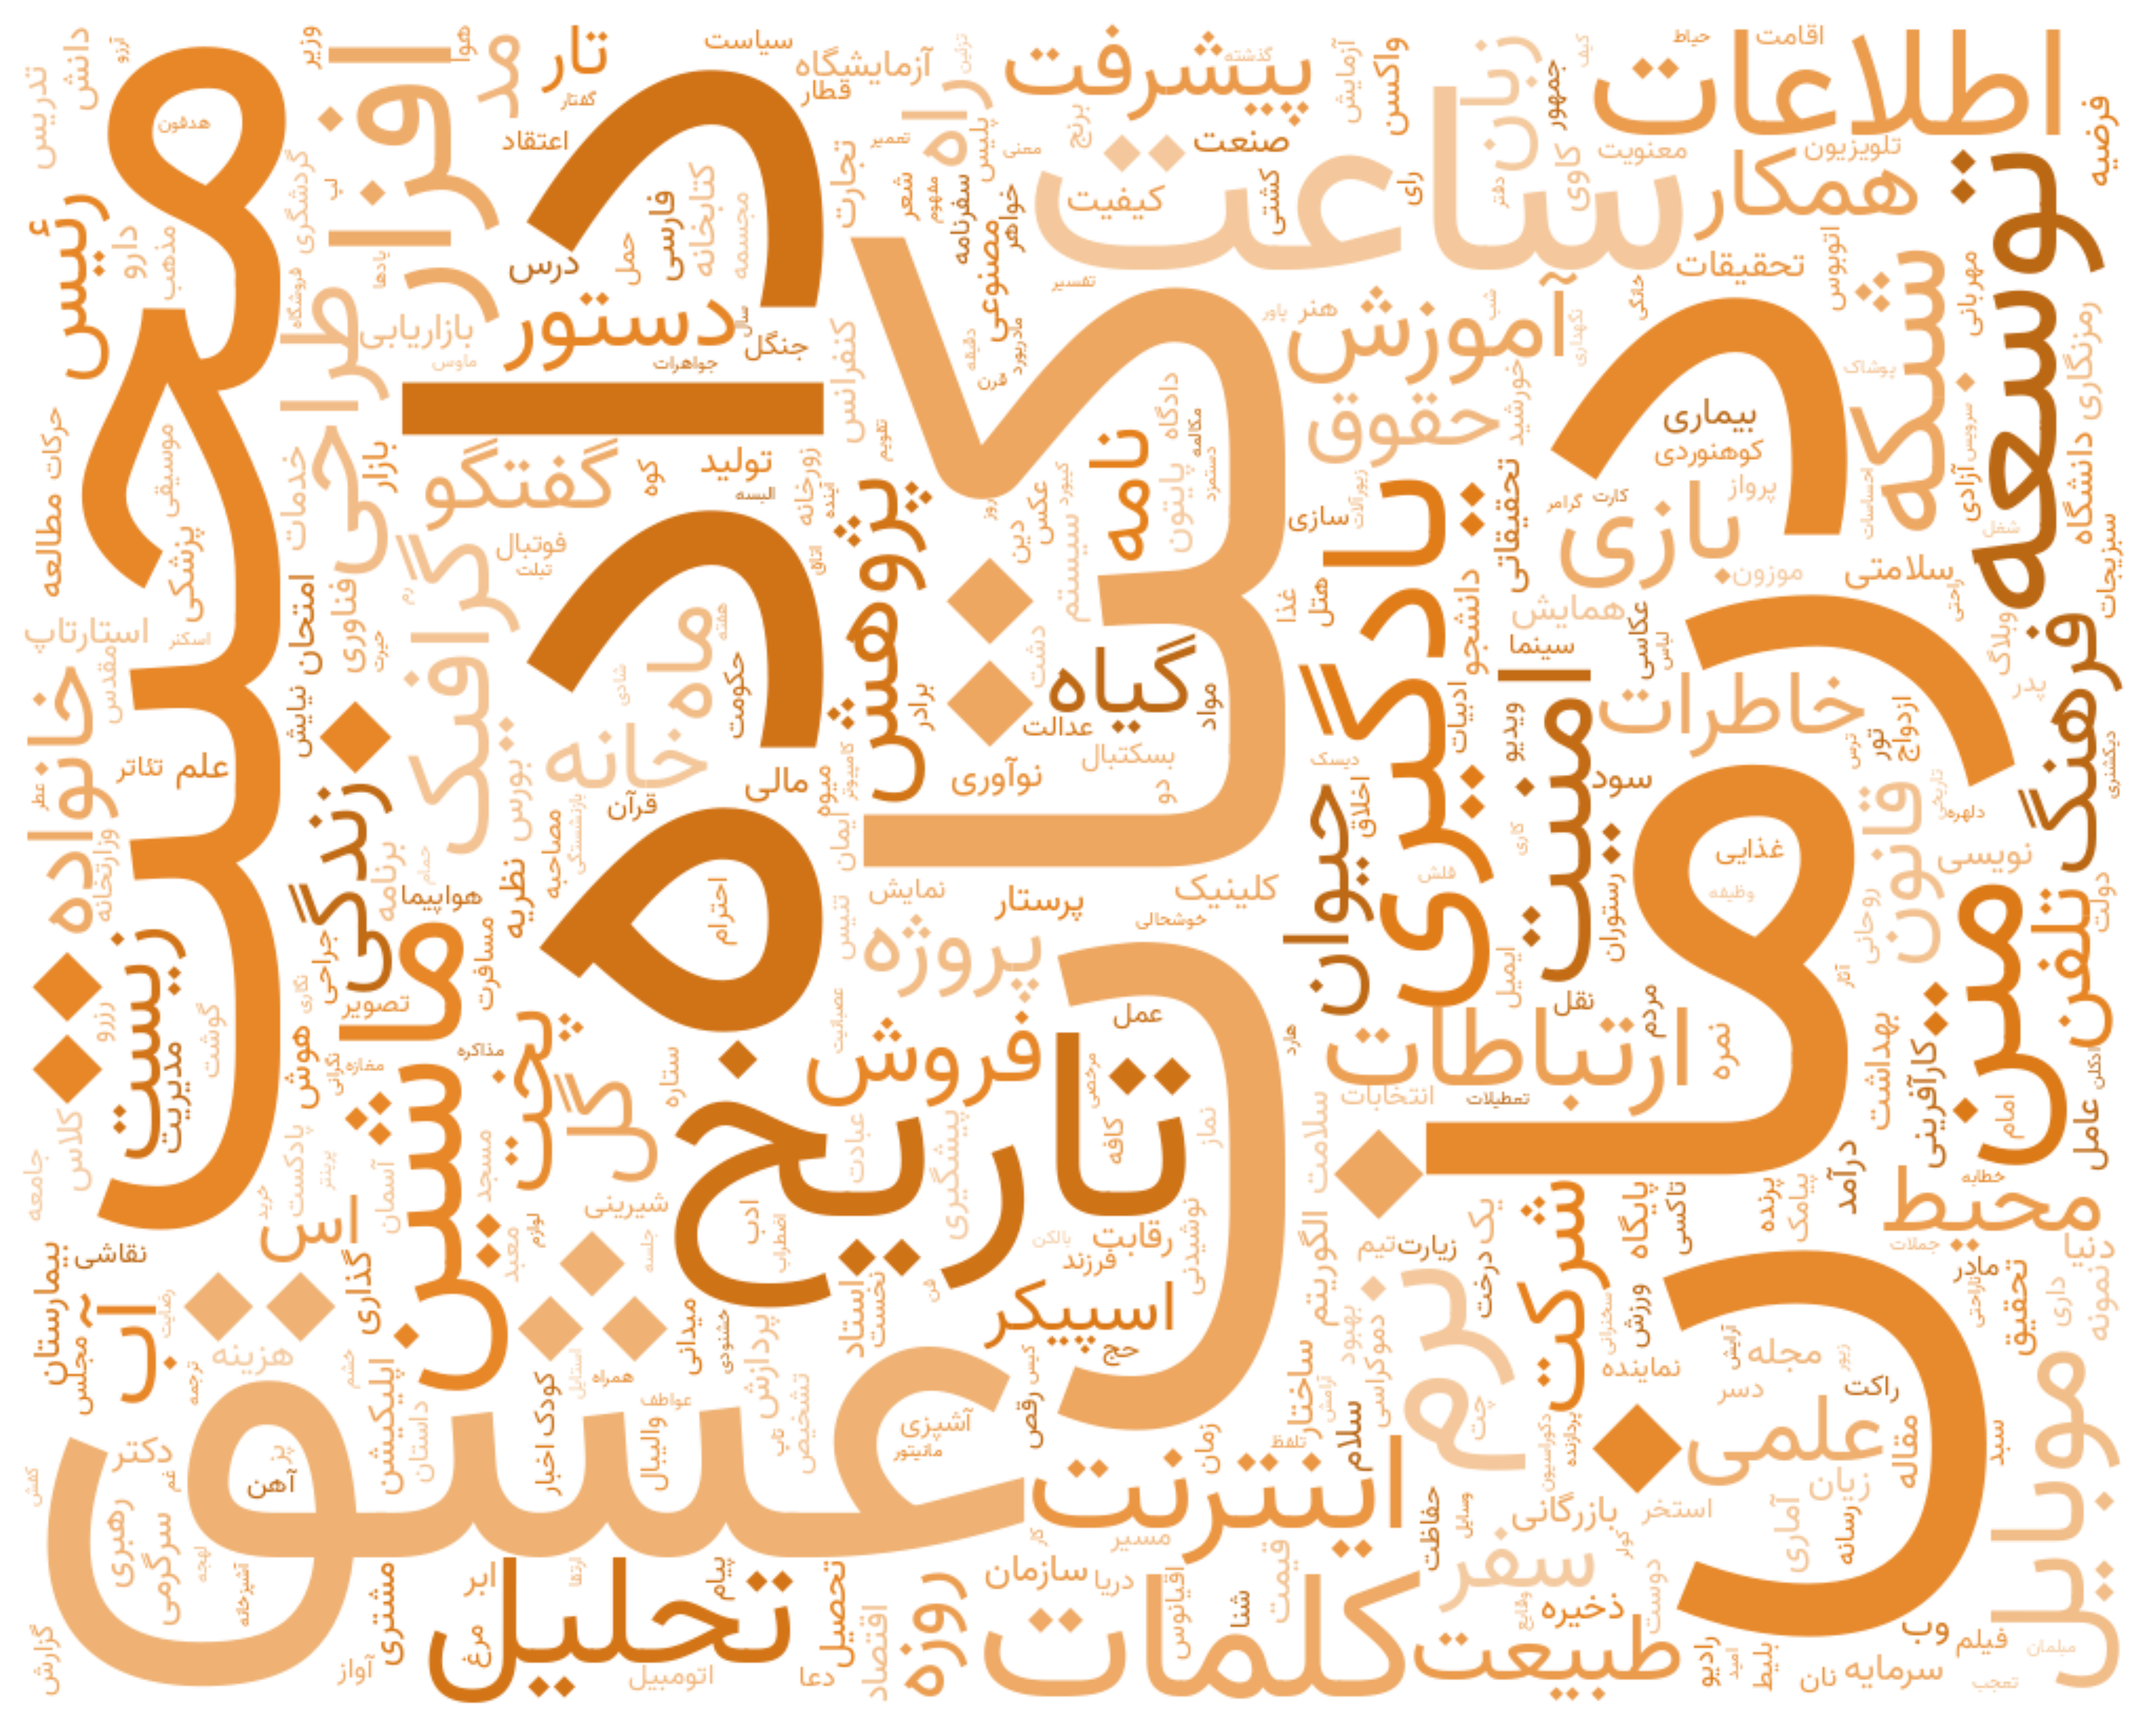
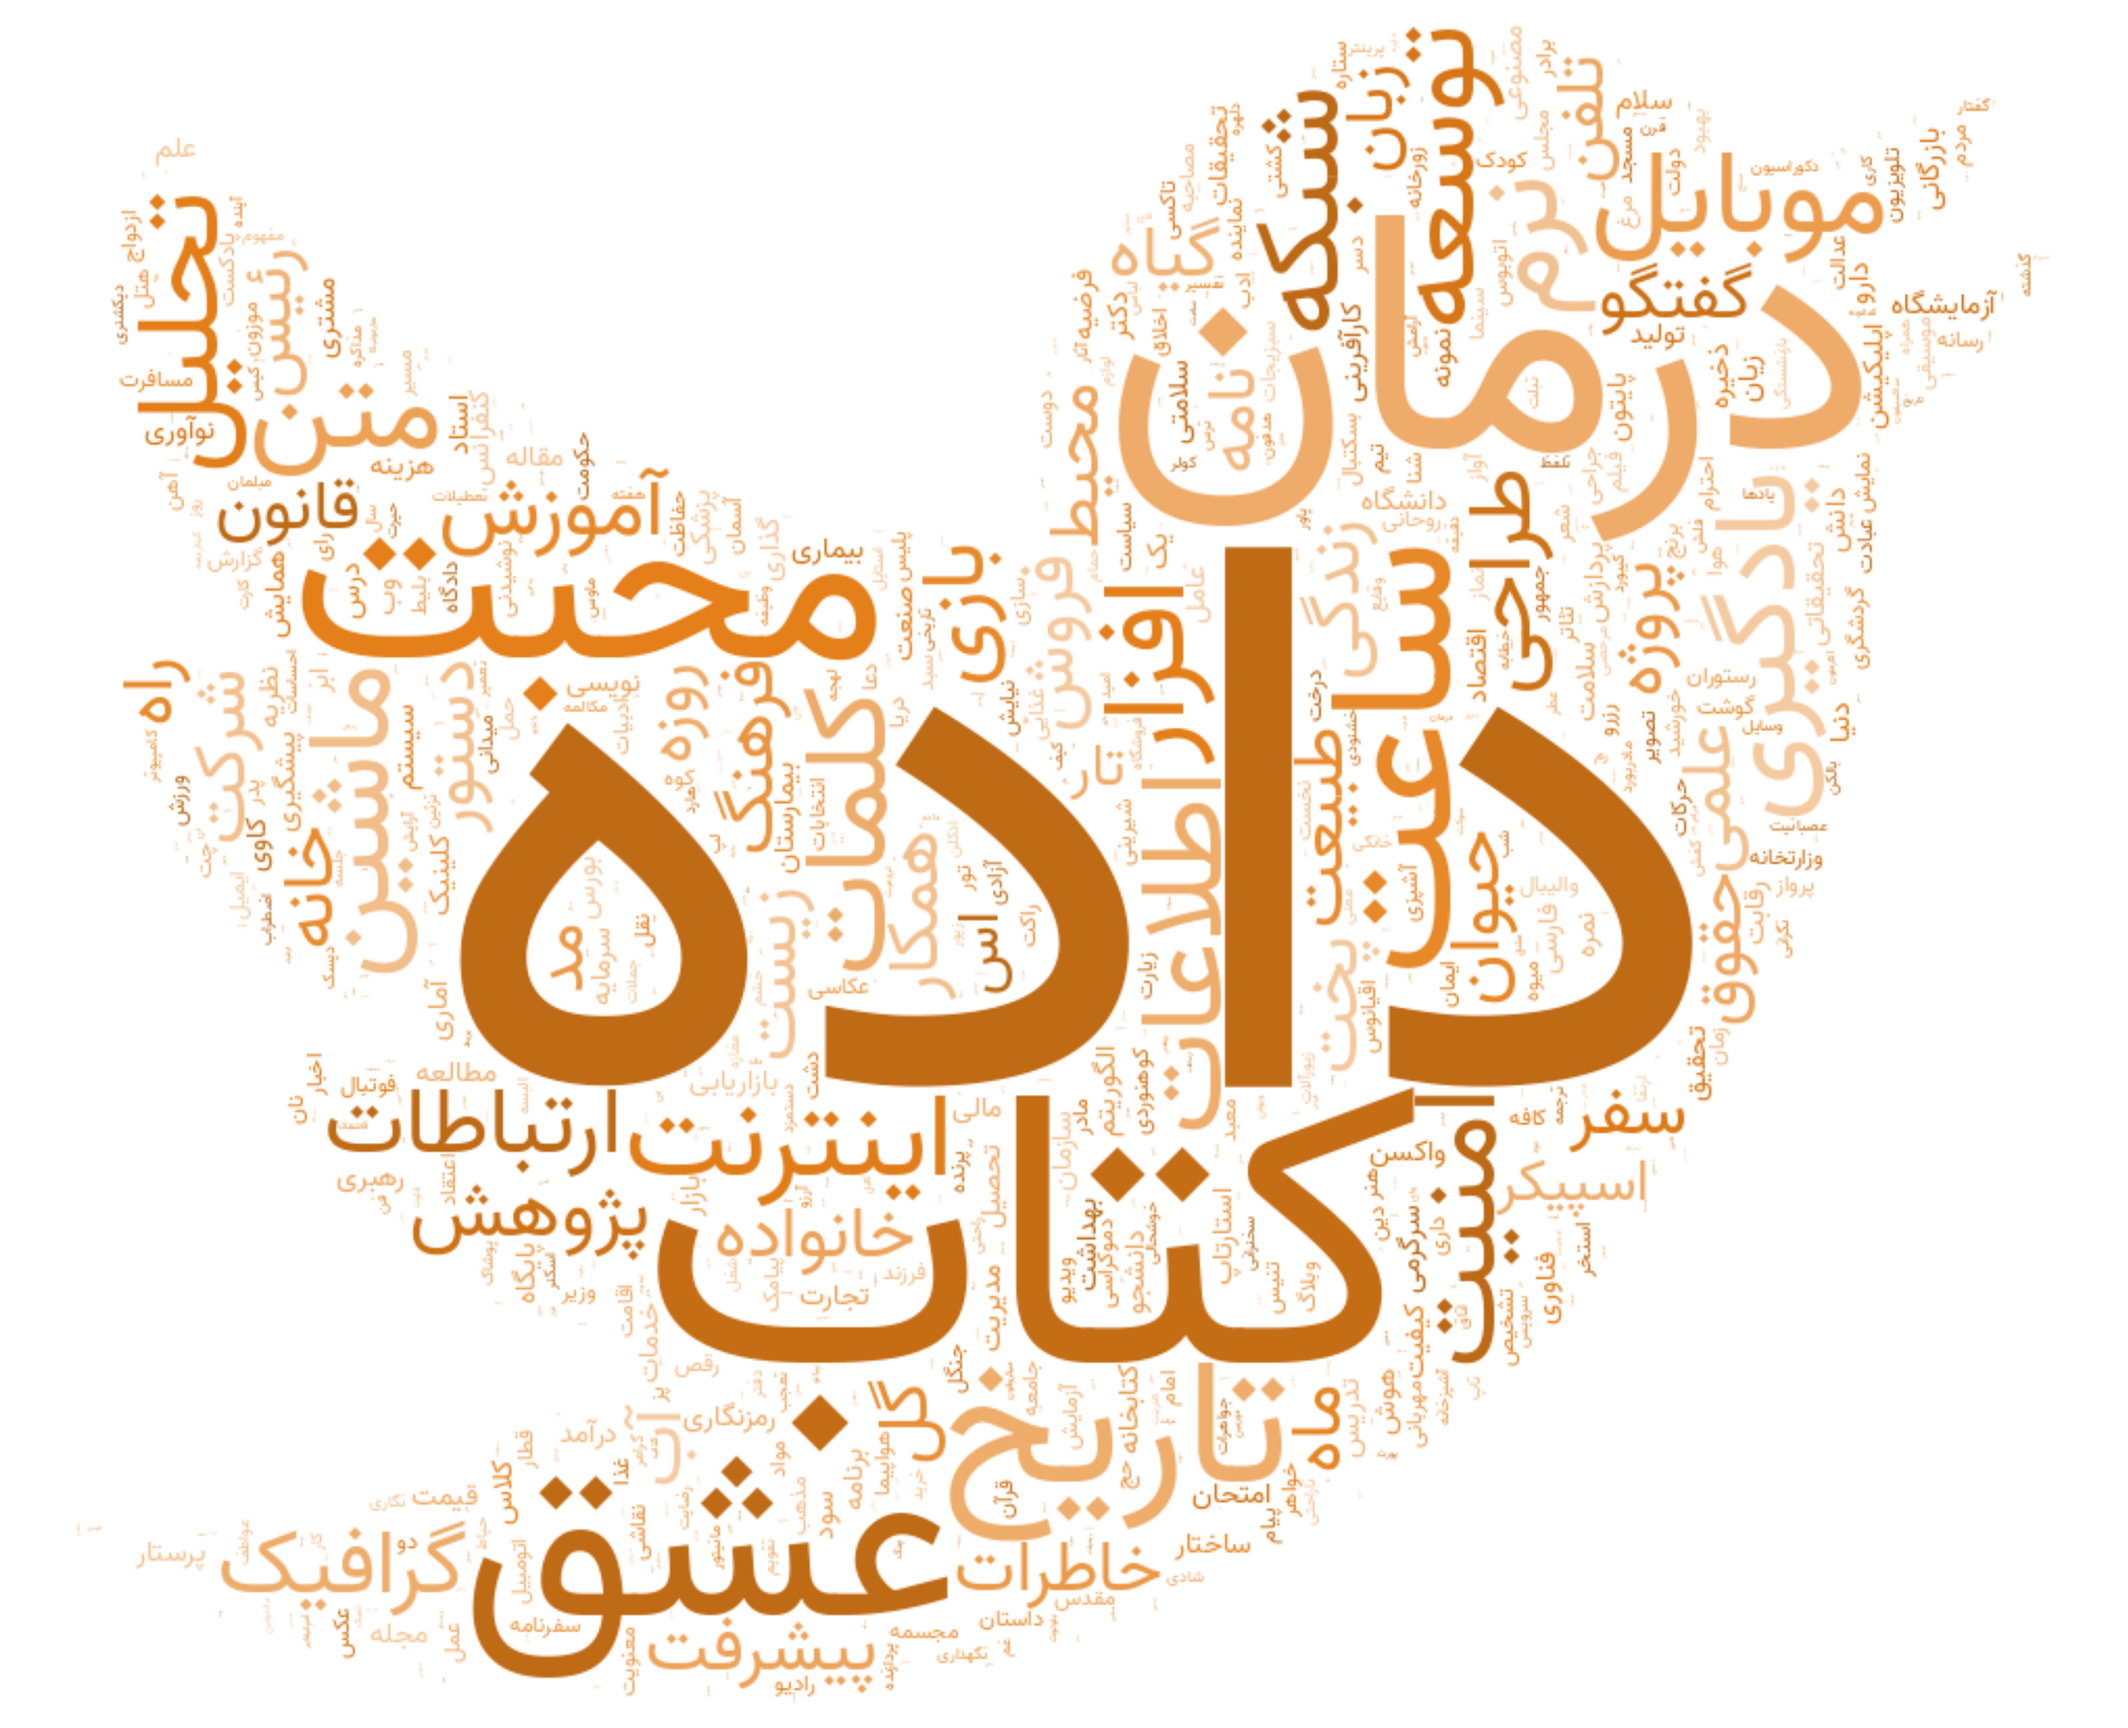
Fix mask issue and clean up project files - Applied simple mask loading approach from working project - Removed unnecessary test files and directories - Project now works correctly with masks

diff --git a/wordcloud_generator.py b/wordcloud_generator.py
@@ -35,6 +35,34 @@ def create_random_color_func(hue, saturation, lightness_range):
         return f'#{int(rgb[0]*255):02x}{int(rgb[1]*255):02x}{int(rgb[2]*255):02x}'
     return random_color_func
 
+def process_mask_image(mask_path, debug=False):
+    """
+    Process mask image using the simple, working approach from wordcloud_with_mask.py
+    Returns: (mask_array, image_colors, success_message)
+    """
+    if not mask_path or not os.path.exists(mask_path):
+        return None, None, "Mask file not found"
+    
+    try:
+        # Load mask image using the simple approach that works
+        mask = np.array(Image.open(mask_path))
+        print(f"Loading mask: {mask_path}, Shape: {mask.shape}")
+        
+        # Create image color generator for color extraction
+        image_colors = ImageColorGenerator(mask)
+        
+        success_msg = f"Mask loaded successfully using simple approach"
+        print(success_msg)
+        
+        return mask, image_colors, success_msg
+        
+    except Exception as e:
+        error_msg = f"Error loading mask from {mask_path}: {e}"
+        print(error_msg)
+        import traceback
+        traceback.print_exc()
+        return None, None, error_msg
+
 def create_persian_wordcloud(text_array, config_file="config.json", output_file=None):
     """
     Create a Persian word cloud from an array of strings
@@ -126,23 +154,15 @@ def create_persian_wordcloud(text_array, config_file="config.json", output_file=
     if font_path is None:
         print("Warning: No Persian font found. Using system default.")
     
-    # Get mask
+    # Process mask with improved handling
     mask = None
     image_colors = None
     
-    if mask_path and os.path.exists(mask_path):
-        try:
-            mask_image = Image.open(mask_path)
-            mask = np.array(mask_image)
-            
-            # If using image color generator, create it
-            if color_mode == "image_colors":
-                image_colors = ImageColorGenerator(mask_image)
-            
-            print(f"Mask loaded from: {mask_path}")
-        except Exception as e:
-            print(f"Warning: Could not load mask from {mask_path}: {e}")
-            mask = None
+    if mask_path:
+        mask, image_colors, mask_status = process_mask_image(mask_path, debug=True)
+        if mask is None:
+            print(f"Mask processing failed: {mask_status}")
+            print("Continuing without mask...")
     
     # Create color function based on mode
     color_func = None
@@ -157,6 +177,8 @@ def create_persian_wordcloud(text_array, config_file="config.json", output_file=
         print("Using image color generator")
     
     # Create word cloud with complete settings
+    # Note: WordCloud uses mask differently - True areas are where words CAN be placed
+    # For WordCloud: True = areas where words CAN be placed, False = areas where words CANNOT be placed
     wordcloud = WordCloud(
         width=width,
         height=height,
@@ -173,7 +195,9 @@ def create_persian_wordcloud(text_array, config_file="config.json", output_file=
         random_state=random_state,
         collocations=collocations,
         repeat=repeat,
-        mode=mode
+        mode=mode,
+        contour_width=0,  # No contour
+        contour_color='black'
     )
     
     # Generate word cloud from frequencies
@@ -181,22 +205,14 @@ def create_persian_wordcloud(text_array, config_file="config.json", output_file=
     
     # Create matplotlib figure
     plt.figure(figsize=(12, 8))
-    plt.imshow(wordcloud, interpolation='bilinear')
     
-    # Draw border around mask if mask is used
+    # Show wordcloud with proper mask handling
     if mask is not None:
-        try:
-            from scipy import ndimage
-            # Create boundary from mask
-            mask_boundary = ndimage.binary_erosion(mask == 0, iterations=1) != (mask == 0)
-            
-            # Get the coordinates of the boundary
-            boundary_coords = np.where(mask_boundary)
-            if len(boundary_coords[0]) > 0:
-                # Draw the boundary
-                plt.plot(boundary_coords[1], boundary_coords[0], 'k-', linewidth=2, alpha=0.8)
-        except Exception as e:
-            print(f"Could not draw mask boundary: {e}")
+        # Show wordcloud normally - the mask is already applied during generation
+        plt.imshow(wordcloud, interpolation='bilinear')
+    else:
+        # No mask, just show wordcloud normally
+        plt.imshow(wordcloud, interpolation='bilinear')
     
     plt.axis('off')
     plt.tight_layout(pad=0)
